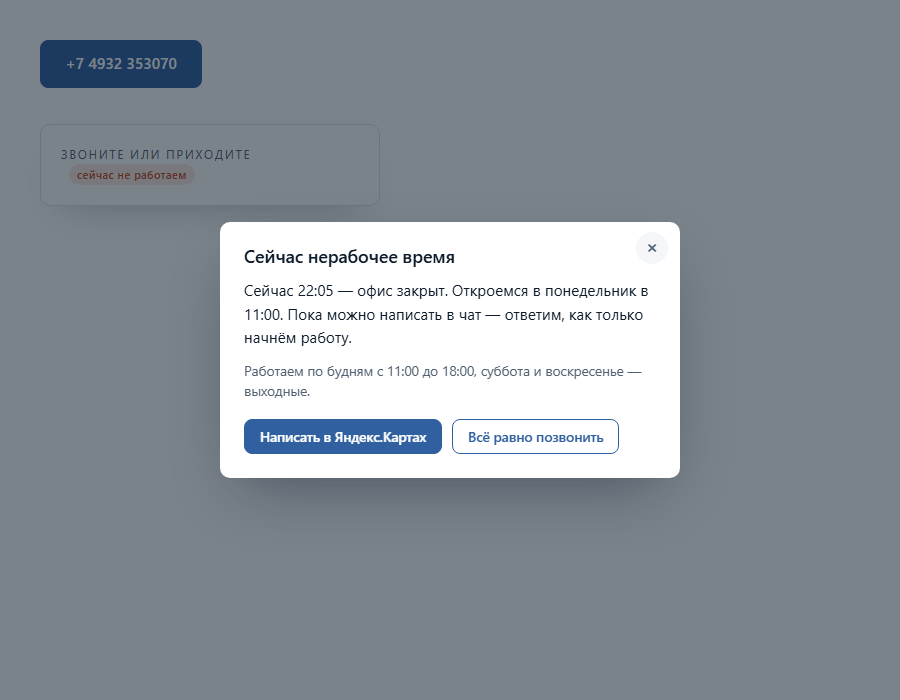
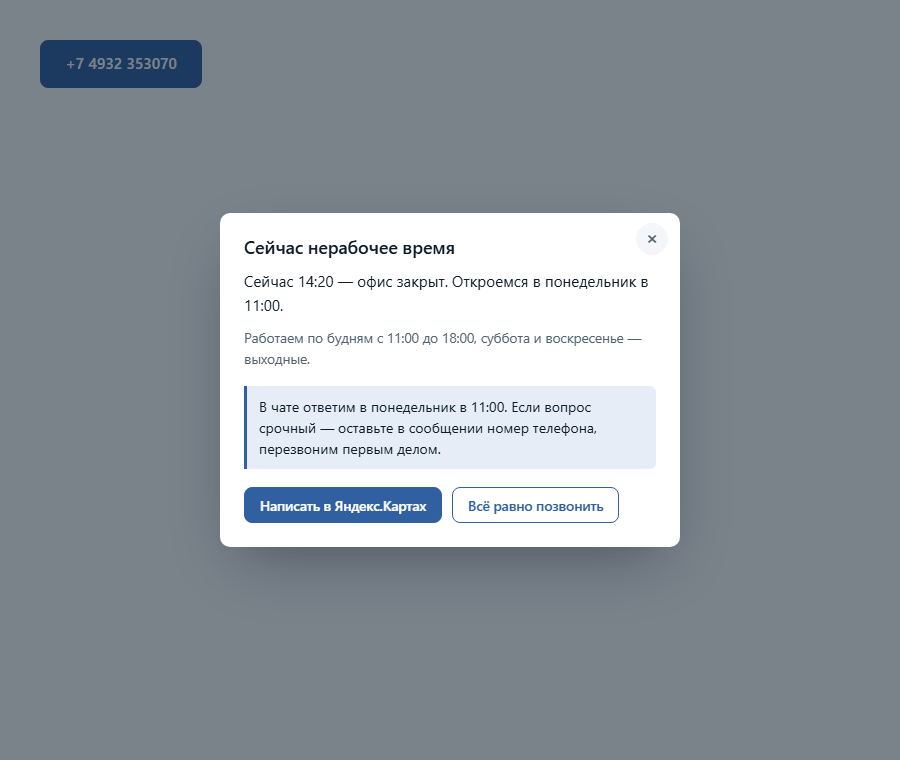
Окно нерабочего времени: обещание ответа в чате и предложение оставить номер для срочных вопросов

Changed region(s): [[0.2178, 0.27, 0.7778, 0.72], [0.0311, 0.03, 0.2178, 0.15], [0.0622, 0.21, 0.28, 0.27]]

diff --git a/assets/hours.js b/assets/hours.js
@@ -97,6 +97,10 @@
     hours.textContent = "Работаем по будням с 11:00 до 18:00, суббота и воскресенье — выходные.";
     panel.appendChild(hours);
 
+    var note = document.createElement("p");
+    note.className = "hours-modal__note";
+    panel.appendChild(note);
+
     var actions = document.createElement("div");
     actions.className = "hours-modal__actions";
 
@@ -130,7 +134,7 @@
     });
 
     document.body.appendChild(wrap);
-    return { wrap: wrap, text: text, previous: null };
+    return { wrap: wrap, text: text, note: note, previous: null };
   }
 
   function show(phoneHref) {
@@ -138,9 +142,10 @@
       modal = buildModal();
     }
     var now = msk();
-    modal.text.textContent = "Сейчас " + now.time + " — офис закрыт. " +
-      "Откроемся " + nextOpening(now) + ". Пока можно написать в чат — " +
-      "ответим, как только начнём работу.";
+    var when = nextOpening(now);
+    modal.text.textContent = "Сейчас " + now.time + " — офис закрыт. Откроемся " + when + ".";
+    modal.note.textContent = "В чате ответим " + when + ". Если вопрос срочный — " +
+      "оставьте в сообщении номер телефона, перезвоним первым делом.";
     if (phoneHref) {
       modal.previous = phoneHref;
     }

diff --git a/assets/style.css b/assets/style.css
@@ -1858,3 +1858,13 @@ body > main { flex: 1 0 auto; }
 @media (max-width: 480px) {
   .hours-modal__actions .btn { width: 100%; }
 }
+.hours-modal__note {
+  margin: 0 0 18px;
+  padding: 10px 12px;
+  border-left: 3px solid var(--blue);
+  background: var(--blue-soft);
+  border-radius: 0 6px 6px 0;
+  font-size: .88rem;
+  line-height: 1.5;
+  color: var(--ink);
+}
